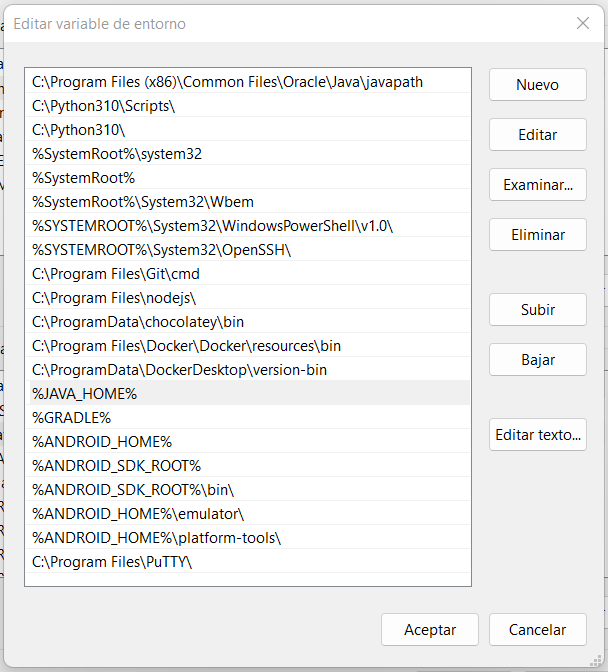
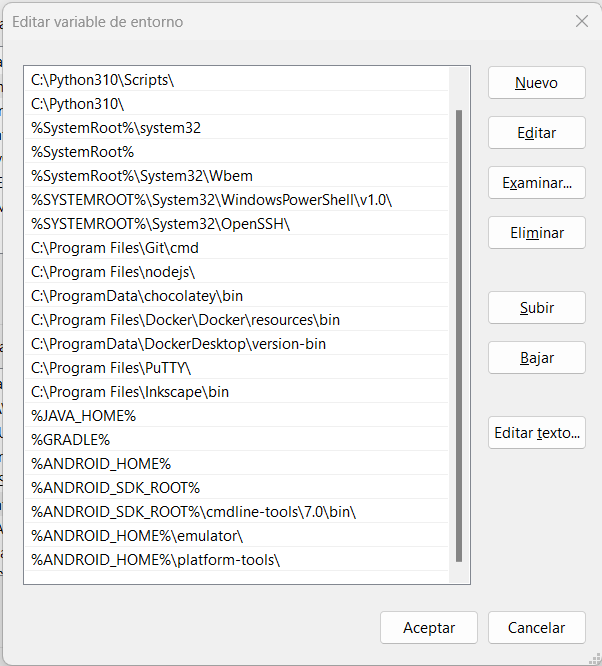
angular_cordova

diff --git a/tutoriales/angular_cordova.md b/tutoriales/angular_cordova.md
@@ -67,12 +67,12 @@ Cree/verifique las variables de entorno para:
 * **JAVA\_HOME.** Usualmente, la ruta es: **`C:\Program Files\Java\jdk<version>`**
 * **GRADLE**. La ruta es: **`C:\Gradle\bin`**
 * **ANDROID\_HOME.** La ruta es: **`C:\Android`**
-* **ANDROID\_SDK\_ROOT.** La ruta es: **`C:\Android\cmdline-tools\7.0`**    
+* **ANDROID\_SDK\_ROOT.** La ruta es: **`C:\Android`**    
 
 Agregue todas las variables de entorno anteriores al **PATH**.
 
 * Además, agregue al **PATH** las rutas
-  + **%ANDROID\_SDK\_ROOT%\\bin\\**
+  + **%ANDROID\_SDK\_ROOT%\\cmdline-tools\\\\7.0\\bin\\**
   + **%ANDROID\_HOME%\\emulator\\** 
   + **%ANDROID\_HOME%\\platform-tools\\** 
 
